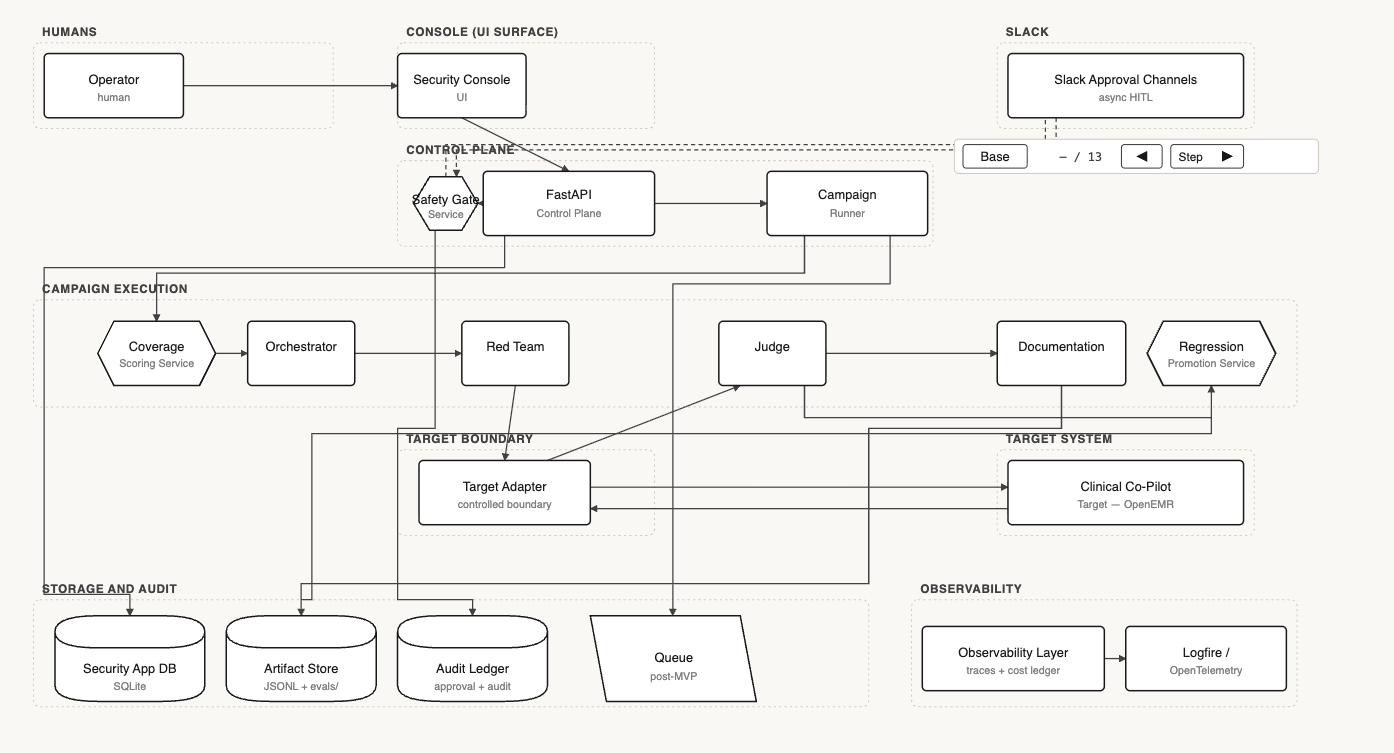
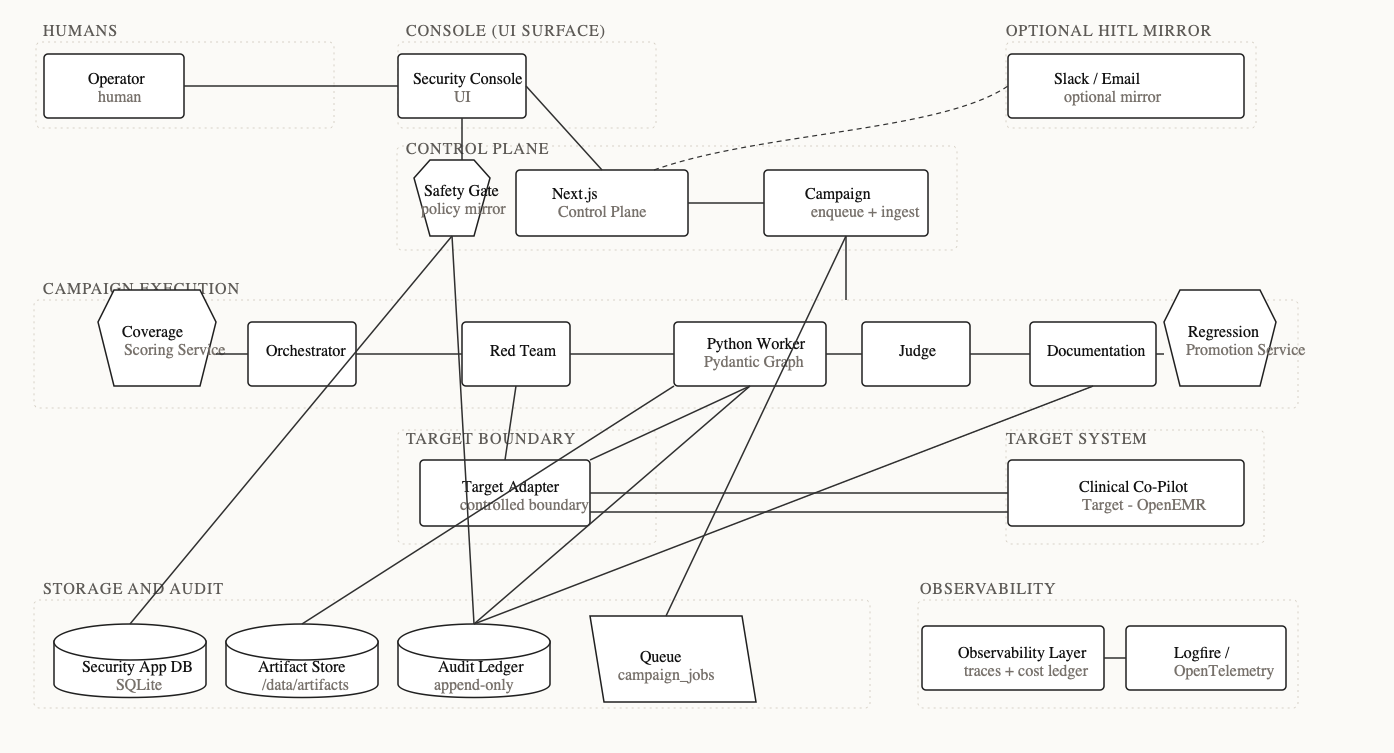
docs(THE-8): sync architecture deployment shape

diff --git a/docs/plans/2026-05-12-002-boundary-labs-frontend-auth-deployment-plan.md b/docs/plans/2026-05-12-002-boundary-labs-frontend-auth-deployment-plan.md
@@ -16,8 +16,9 @@ This should not become a UI wrapper around one Python script. The frontend shoul
 
 Build a single-service app first:
 
-- `apps/web`: Next.js App Router console, TypeScript, server-rendered authenticated UI, route handlers/server actions for the control plane, deployed as one standalone Railway service.
-- `scripts/run_mvp_evals.py`: temporarily executed by the web service's server-side campaign runner until the native campaign runner exists.
+- `apps/web`: Next.js App Router console, TypeScript, server-rendered authenticated UI, route handlers/server actions for the control plane, deployed as one Docker-backed Railway service.
+- `worker/`: Python worker hosted in the same container as a supervised child process. It claims SQLite `campaign_jobs`, runs the Pydantic Graph path, writes sentinels/artifacts, and mirrors Safety Gate policy from generated code.
+- `scripts/run_mvp_evals.py`: the deterministic runner contract used by the worker for campaign execution artifacts.
 
 Use Tailwind CSS 4 and shadcn/ui as the React component foundation. The static designs in `designs/` are the visual source of truth and should be rebuilt as composable React components, not embedded as HTML exports or inline-style ports.
 
@@ -31,11 +32,12 @@ Default auth path:
 
 Deployment target:
 
-- One Railway service for `boundary-web`.
+- One Railway service for `boundary-web`, built from the root `Dockerfile`.
+- `supervisord` runs `next start`, `python -m worker`, and the fatal-exit listener as sibling processes.
 - One persistent Railway volume mounted at `/data` for SQLite and artifacts.
 - GitHub Actions owns CI and deploy orchestration using a Railway project token and a `demo` GitHub Environment.
 
-This keeps the UI modern, keeps deployment simple, and avoids spending time on extra infrastructure before the product surface proves itself. Postgres, a separate FastAPI service, and workers remain planned upgrade paths.
+This keeps the UI modern, keeps deployment simple, and avoids spending time on extra infrastructure before the product surface proves itself. Postgres, a separate FastAPI service, and horizontally scaled workers remain planned upgrade paths.
 
 ## Scope
 
@@ -68,9 +70,10 @@ Browser
   -> apps/web Next.js console
     -> Better Auth
     -> SQLite on /data
-    -> Server-side Campaign Runner
+    -> Safety Gate + approvals + audit
+    -> SQLite campaign_jobs queue
+    -> supervised Python worker
     -> Artifact Store on /data
-    -> Audit Ledger
     -> Clinical Co-Pilot target
 ```
 
@@ -319,19 +322,20 @@ Recommended first navigation:
 
 Railway services for the demo:
 
-- `boundary-web`: Next.js standalone service.
+- `boundary-web`: Dockerfile-built service containing Next.js web and Python worker child processes under `supervisord`.
 - `/data` volume attached to `boundary-web` for SQLite and artifacts.
 
 Deferred services:
 
 - `boundary-api`: FastAPI service, only if Next route handlers become too crowded or we need Python-native orchestration online.
 - `boundary-db`: Postgres, only when SQLite limits become real.
-- `boundary-worker`: post-MVP worker for long-running campaigns.
 - `boundary-redis`: post-MVP queue/cache if needed.
+
+The worker is no longer deferred for the demo; it runs inside `boundary-web` as `python -m worker`. A separate worker service is a future scale-out option, not a current missing deployment unit.
 
 Service readiness:
 
-- `boundary-web /readyz`: checks app boot, Better Auth config presence, SQLite read/write, artifact directory read/write, target allowlist config, and deployed target readiness cache.
+- `boundary-web /readyz`: checks app boot, worker heartbeat freshness, SQLite `PRAGMA integrity_check`, `policy_values` bootstrap state, local state paths, target allowlist config, and data mode.
 
 ## GitHub Actions
 
@@ -339,18 +343,16 @@ Service readiness:
 
 #### `.github/workflows/ci.yml`
 
-Runs on PR and push:
+Runs on pull request only:
 
-- Install Node dependencies.
-- Install Python dependencies only for eval-runner/schema checks.
-- Lint web.
+- Install Node dependencies with pnpm.
+- Install Python worker dependencies.
 - Typecheck web.
 - Unit test web.
-- Validate eval JSON schemas and sample results.
-- Run eval runner import/smoke tests.
-- Run secret scan.
-- Run dependency audit.
 - Build web.
+- Run Playwright login smoke.
+- Verify Safety Gate codegen freshness.
+- Run Python worker tests and parity checks.
 
 #### `.github/workflows/deploy-preview.yml`
 
@@ -362,14 +364,15 @@ Runs on PR when requested:
 
 This can be deferred if time is tight.
 
-#### `.github/workflows/deploy-demo.yml`
+#### `.github/workflows/deploy-railway.yml`
 
 Runs on push to `main` and `workflow_dispatch`:
 
 - Uses GitHub Environment `demo`.
-- Uses concurrency group `demo`.
-- Runs SQLite/Drizzle migrations as part of app startup or a pre-start command.
-- Deploys `apps/web` with Railway CLI.
+- Uses concurrency group `railway-production`.
+- Validates `policy_seed.json` and migrations against a temporary SQLite database.
+- Runs Docker build preflight from the root `Dockerfile`.
+- Deploys the root project with Railway CLI.
 - Runs public smoke checks:
   - `GET /healthz`
   - `GET /readyz`
@@ -379,19 +382,20 @@ Runs on push to `main` and `workflow_dispatch`:
 
 Use Railway project tokens, not personal tokens. Pin third-party GitHub Actions by version or commit SHA. A protected production-grade environment is deferred until this is more than a synthetic-data demo.
 
+Legacy `.gitlab-ci.yml` remains in the repo until `.github/workflows/deploy-railway.yml` has completed at least one green deploy cycle. After that proof, delete the GitLab file so GitHub Actions is the only deploy path.
+
 ## Secrets and Environment Variables
 
 GitHub Environment secrets:
 
 - `RAILWAY_TOKEN`
 - `RAILWAY_PROJECT_ID`
-- `BOUNDARY_WEB_SERVICE`
-- `AUTH_ISSUER`
-- `AUTH_CLIENT_ID`
-- `AUTH_CLIENT_SECRET`
-- `AUTH_AUDIENCE`
+- `RAILWAY_SERVICE_ID`
 - `BETTER_AUTH_SECRET`
 - `BETTER_AUTH_URL`
+- `BAA_DOCUMENT_HASH`
+- `ANTHROPIC_API_KEY`
+- `OPENAI_API_KEY`
 - `SQLITE_PATH=/data/boundary.db` should be a Railway variable, not a GitHub secret.
 - `BOUNDARY_ARTIFACT_DIR=/data/artifacts` should be a Railway variable.
 
@@ -645,10 +649,9 @@ Tests:
 Files:
 
 - `.github/workflows/ci.yml`
-- `.github/workflows/deploy-demo.yml`
-- `.github/workflows/deploy-preview.yml`
-- `apps/web/Dockerfile`
-- `apps/web/railway.toml`
+- `.github/workflows/deploy-railway.yml`
+- `Dockerfile`
+- `railway.toml`
 - `.railwayignore`
 
 Work:

diff --git a/ARCHITECTURE.md b/ARCHITECTURE.md
@@ -6,6 +6,7 @@ Interactive architecture deck: `docs/architecture-deck.html`
 Canonical system map image: `docs/architecture-system-map.png`
 Previous Excalidraw diagram: https://app.excalidraw.com/s/9xifBd5YAg0/54ViBcu7irY
 Document status: Architecture and build plan for an authorized defensive security platform
+Implementation update: `docs/plans/2026-05-13-001-feat-platform-buildout-plan.md` supersedes the earlier FastAPI-control-plane deployment shape for the current demo build. The deployed platform is one Docker/Railway service with Next.js and a Python worker supervised as sibling processes.
 
 ## Executive Summary
 
@@ -18,6 +19,8 @@ The security platform should be a completely separate app from the Clinical Co-P
 The first MVP should stand up the target, create `THREAT_MODEL.md`, define a versioned eval schema under `evals/`, implement a live Target Adapter, and ship one working Red Team or Judge agent against at least three attack categories. The full platform then adds independent judging, Pydantic Graph campaign orchestration, regression promotion, documentation, Slack human-in-the-loop approvals, observability, and cost controls. Priority categories come from the PRD and current LLM security guidance: direct and indirect prompt injection, multi-turn manipulation, data exfiltration, cross-patient authorization bypass, state corruption, tool misuse, denial of service and cost amplification, and identity or role exploitation.
 
 The trust model is conservative. The system may autonomously generate low-risk variants, run authorized eval campaigns, record results, draft reports, and schedule regressions. It must stop for human approval before testing any non-allowlisted target, using real PHI, filing high or critical reports externally, recommending production remediation, changing target defenses, or expanding privileges. Autonomy increases coverage and repeatability; high-impact actions remain governed, auditable, and reversible.
+
+Current implementation shape: a single Docker container runs the Next.js console/control plane and the Python Pydantic Graph worker under `supervisord`. Better Auth protects the console with three Boundary roles (`admin`, `operator`, `reviewer`). The system of record is SQLite on `/data/boundary.db` with WAL mode, append-only `audit_events`, `campaign_jobs` queue rows, and artifact storage under `/data/artifacts`. Safety Gate policy is stored in `policy_values`, mirrored into the worker by build-time codegen, and enforced both before web mutations and when the worker claims jobs. The CISO-readable trust surface is `/settings/policy`, `/settings/baa`, `/audit`, and `/approvals`.
 
 ## Goals And Non-Goals
 
@@ -106,12 +109,12 @@ This boundary matters because the tester should not be part of the system it jud
 
 ### Considered Alternatives
 
-Two lighter shapes were considered and rejected before committing to a separate FastAPI application:
+Two lighter shapes were considered and rejected before committing to a separate security application:
 
 1. **CLI-driven eval harness wrapping `pydantic-evals`.** A single Python process that loops over attack cases and calls the target. Rejected because the PRD's multi-agent framing requires distinct contexts, tools, and trust levels per role (Red Team's adversarial input must not be trusted by the Judge; the Documentation agent must not see raw red-team reasoning). A single-process harness can simulate the separation but cannot demonstrate it — and the rubric specifically asks for visible separation of duties.
 2. **Opt-in adversarial mode inside the target's `clinical-copilot/tests/eval/`.** Rejected because the tester would inherit the target's trust boundary (same process, same secrets, same Logfire project) — the security app's own threat model collapses, and the "tester is not the testee" principle is violated. The target also has local uncommitted changes that would conflict with a Week 3 fork.
 
-The chosen separation costs more setup (a second FastAPI, second DB, second deployment) but unlocks the trust-boundary story the PRD rubric grades. Week 3 budgets that cost against the "Phase 0–2 setup time" line item — see Build Plan for the per-phase day budgets.
+The chosen separation costs more setup than a CLI-only harness, but the current demo implementation keeps the operations footprint small: one Railway service, one SQLite database, one `/data` volume, and a supervised Python worker inside the same container. A separate FastAPI service remains a future extraction option if Next.js route handlers or the worker boundary become too crowded.
 
 ## Design Principles
 
@@ -127,10 +130,10 @@ The chosen separation costs more setup (a second FastAPI, second DB, second depl
 
 | Layer | Recommendation | Rationale |
 | --- | --- | --- |
-| Agent orchestration | Pydantic AI agents orchestrated by stable `pydantic_graph.Graph` nodes | Aligns with the target's existing agent stack while keeping orchestration typed, inspectable, and resumable. Use `BaseNode`, `GraphRunContext`, `End`, and graph persistence for MVP; avoid the beta graph builder because HITL workflows need persistence. |
-| API/control plane | Separate Python FastAPI service in this security repo | Gives the security platform its own UI/API, auth, deployment, run history, and approval surfaces without changing the target. |
-| State store | Security-app SQLite for MVP, Postgres for production | Campaigns, findings, approvals, costs, and reports belong to the security app. The target database is evidence, not the platform's state store. |
-| Queue | Start synchronous/CLI; add Redis, RQ, Celery, or managed queue post-MVP | MVP can run bounded campaigns through CLI/API. Long-running overnight campaigns need a worker queue and resumable state. |
+| Agent orchestration | Python worker hosting Pydantic AI agents and stable `pydantic_graph.Graph` nodes | Aligns with the target's existing agent stack while keeping orchestration typed, inspectable, and resumable. The worker is a supervised child process in the same container for the demo. |
+| API/control plane | Next.js route handlers and server actions in `apps/web` | Keeps auth, RBAC, approvals, audit, launch/cancel actions, and CISO-readable surfaces in one deployable console while preserving the option to extract a FastAPI API later. |
+| State store | SQLite on `/data/boundary.db` for MVP, Postgres for production scale | Campaigns, findings, approvals, costs, policy, queue state, and reports belong to the security app. The target database is evidence, not the platform's state store. |
+| Queue | SQLite `campaign_jobs` claimed by the Python worker | One supervised worker is enough for the demo. Redis/RQ/Celery or a managed queue become relevant only when multiple workers or higher write concurrency are needed. |
 | Target execution | HTTP/SSE client, SMART/browser fixture, and Playwright UI runner | Most attack surfaces are `/conversation`, `/copilot/ingest`, `/copilot/documents/*`, SMART launch, OpenEMR document upload, and UI embedding. |
 | Regression data | Pydantic Evals plus root `evals/` owned by the separate security app | Mirror target eval schema concepts, but keep Week 3 adversarial cases, results, and regression suite in this repo as the PRD requires. |
 | Observability | Separate security-app Logfire/OpenTelemetry plus JSONL artifacts | Correlate with target request IDs and deployed version. Do not reuse target app tokens or trace projects unless explicitly approved. |
@@ -142,21 +145,21 @@ The chosen separation costs more setup (a second FastAPI, second DB, second depl
 
 ![Boundary Labs system architecture map](docs/architecture-system-map.png)
 
-This static system map is the canonical diagram for this document. It is sourced from Slide 2 of `docs/architecture-deck.html` and uses the same visual grammar as the deck: rectangles are active components, hexagons are deterministic platform services, cylinders are storage, and the asymmetric shape is the post-MVP queue.
+This static system map is the canonical diagram for this document. The editable source is `docs/architecture-system-map.svg`. It uses the same visual grammar as the deck: rectangles are active components, hexagons are deterministic platform services, cylinders are storage, and the asymmetric shape is the SQLite-backed queue.
 
 The map separates the platform into nine boundaries:
 
 - **Humans:** Operator.
 - **Console (UI surface):** Security Console.
 - **Slack:** Slack Approval Channels for async human-in-the-loop approvals.
-- **Control Plane:** Safety Gate Service, FastAPI Control Plane, and Campaign Runner.
-- **Campaign Execution:** Coverage Scoring Service, Orchestrator, Red Team, Judge, Documentation, and Regression Promotion Service.
+- **Control Plane:** Next.js server actions/route handlers, Safety Gate Service, approval actions, and Campaign Runner enqueue path.
+- **Campaign Execution:** Python worker, Coverage Scoring Service, Orchestrator, Red Team, Judge, Documentation, and Regression Promotion Service.
 - **Target Boundary:** Target Adapter, the only controlled interface to the target.
 - **Target System:** Clinical Co-Pilot in OpenEMR.
 - **Storage and Audit:** Security App DB, Artifact Store, Audit Ledger, and Queue (`post-MVP`).
 - **Observability:** Observability Layer and Logfire / OpenTelemetry.
 
-The lifecycle shown in the map is: Operator uses the Security Console, FastAPI calls the Safety Gate and Campaign Runner, the runner asks Coverage Scoring for gaps, the Orchestrator directs Red Team work, Red Team executes only through the Target Adapter, the Target Adapter exchanges requests and responses with Clinical Co-Pilot, the Judge independently evaluates evidence, and confirmed findings move to Documentation and the Regression Promotion Service. Storage and audit components receive structured artifacts, approvals, and campaign state; observability receives traces and cost-ledger data.
+The current lifecycle is: Operator uses the Security Console, a Next.js server action authenticates with Better Auth, Safety Gate checks policy, and the action writes `campaigns`, `campaign_jobs`, and `audit_events` in SQLite. The supervised Python worker claims queued jobs, runs the Pydantic Graph path, writes run artifacts under `/data/artifacts`, and the web startup ingest sweep materializes completed artifacts back into read models. Red Team executes only through the Target Adapter, the Target Adapter exchanges requests and responses with Clinical Co-Pilot, the Judge independently evaluates evidence, and confirmed findings move to Documentation and the Regression Promotion Service. Storage and audit components receive structured artifacts, approvals, and campaign state; observability receives traces and cost-ledger data.
 
 ### Security Console Information Architecture
 
@@ -174,7 +177,7 @@ A separate **Insights** view (linked from Campaigns) carries the dashboard analy
 
 ## Inter-Agent Coordination
 
-The MVP should run campaigns through explicit Pydantic Graph nodes plus deterministic services in the separate security app. Each node is an agent or deterministic service, and each edge is an explicit handoff with a schema-validated message. Campaign state is stored in security-app file artifacts and a security-app database; the target app's MySQL database is not used for orchestration. Use the stable `pydantic_graph.Graph` API for MVP because it supports persisted graph runs and node-by-node resume. For nodes whose downstream is `SlackApprovalWaitNode`, use SQLite-backed persistence from day one (SQLite is already in the Recommended Stack table); `FileStatePersistence` is acceptable only for short-lived non-pausing runs. Persisted state carries a `schema_version` field; resume refuses on mismatch with a clear operator message. The control plane exposes a `/readyz` check that fails redeploy while any graph is paused at `SlackApprovalWaitNode` — no redeploy across an active pause.
+The MVP should run campaigns through explicit Pydantic Graph nodes plus deterministic services in the separate security app. Each node is an agent or deterministic service, and each edge is an explicit handoff with a schema-validated message. Campaign state is stored in security-app file artifacts and a security-app database; the target app's MySQL database is not used for orchestration. The current implementation hosts this graph path in `python -m worker`, supervised beside `next start` in one container. Use the stable `pydantic_graph.Graph` API for MVP because it supports persisted graph runs and node-by-node resume. Console approvals are the canonical HITL surface today; Slack approval mirroring can be layered on later by linking back to `/approvals`. Persisted state carries a `schema_version` field; resume refuses on mismatch with a clear operator message. The control plane exposes a `/readyz` check that reports worker heartbeat freshness, SQLite integrity, and policy bootstrap state.
 
 `SlackApprovalWaitNode` is a deterministic graph pause primitive (not an LLM agent): it posts the approval card to the configured Slack channel via webhook, persists graph state via the SQLite store above, and blocks on the inbound callback handler validating signature, approval ID, and expiration. The webhook handler resumes the graph only after the Safety Gate Service revalidates approval scope.
 
@@ -930,14 +933,15 @@ PHI redaction is enforced at the storage and trace layers automatically — not 
 
 ### Security Platform Auth Model
 
-The FastAPI control plane authenticates operators via JWT bearer tokens. JWT claims carry: `operator_id`, `role`, `issued_at`, `expires_at`, and (for multi-tenant future) `tenant_id`. Tokens are issued by an operator-management endpoint (out of scope for MVP — for MVP an environment-backed static token set is acceptable) and expire after 24 hours with refresh.
+The current control plane authenticates operators through Better Auth in `apps/web`. Better Auth owns browser sessions; Boundary Labs owns the `operators` table, role lookup, tombstone/revocation state, and Safety Gate decisions. Server components and server actions resolve the current operator before reading sensitive surfaces or writing mutations.
 
-Two RBAC roles for MVP:
+Three RBAC roles for MVP:
 
-- `operator` — launch campaigns, view findings, view reports, propose regression promotions, view approval queue.
-- `approver` — all `operator` permissions plus the ability to answer high/critical Slack approval cards and authorize publication actions.
+- `admin` — manage policy edit requests, target/data-mode gates, BAA acknowledgement, approvals, and high-impact settings.
+- `operator` — launch and cancel synthetic campaigns, inspect results, and triage findings where policy allows.
+- `reviewer` — review approvals, promote regressions, review reports, and triage findings.
 
-MVP is single-tenant: one operator-management surface, one set of allowlists. Multi-tenant is post-MVP; if added, every request carries `tenant_id` from the JWT and the Safety Gate Service enforces per-tenant allowlists and per-tenant approval channels. Session expiry is enforced at the FastAPI middleware layer; revoked operator IDs are checked against a server-side revocation set on every request.
+MVP is single-tenant: one operator-management surface, one set of allowlists, and one policy table. Multi-tenant is post-MVP; if added, every request should carry tenant context from the Better Auth session/operator record and Safety Gate should enforce per-tenant allowlists and per-tenant approval channels. Session expiry is enforced by Better Auth, and revoked operators are checked against the app-owned `operators.status` row on sign-in and worker claim.
 
 ## Build Plan
 